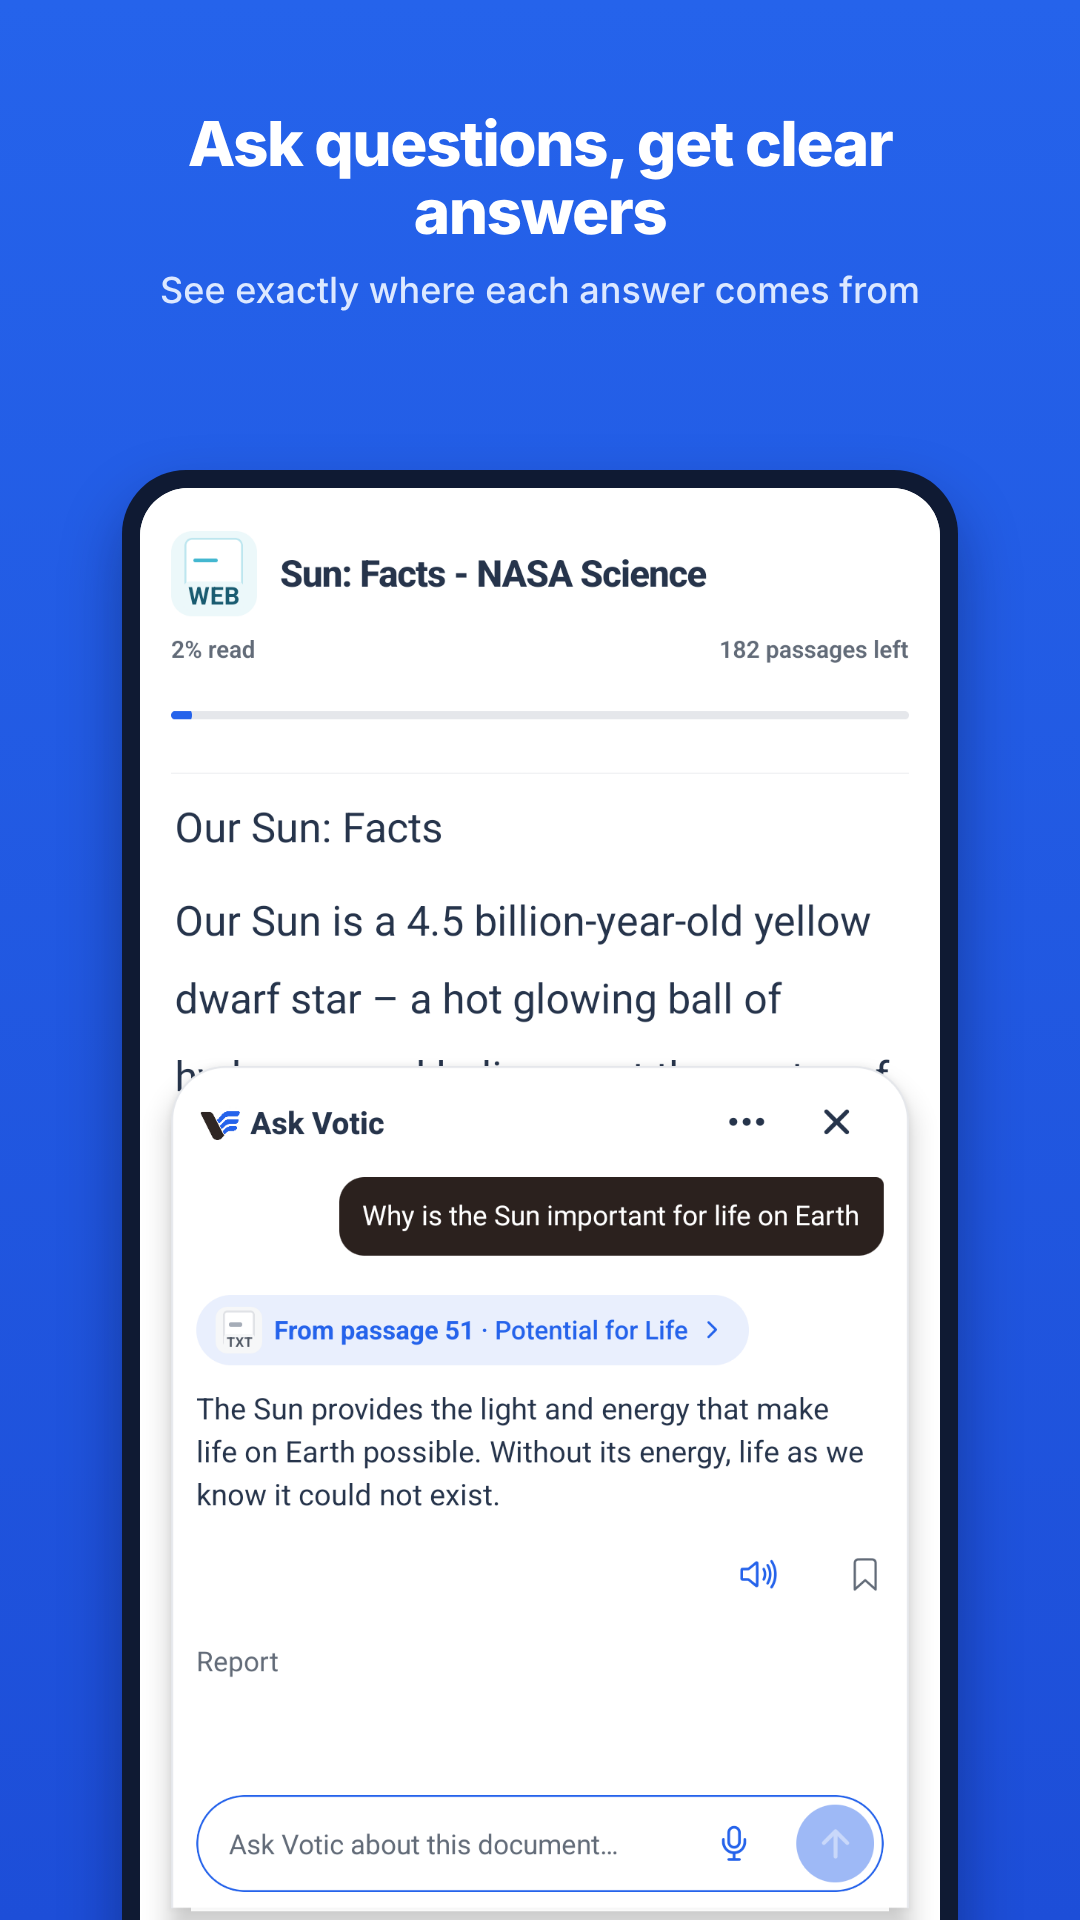
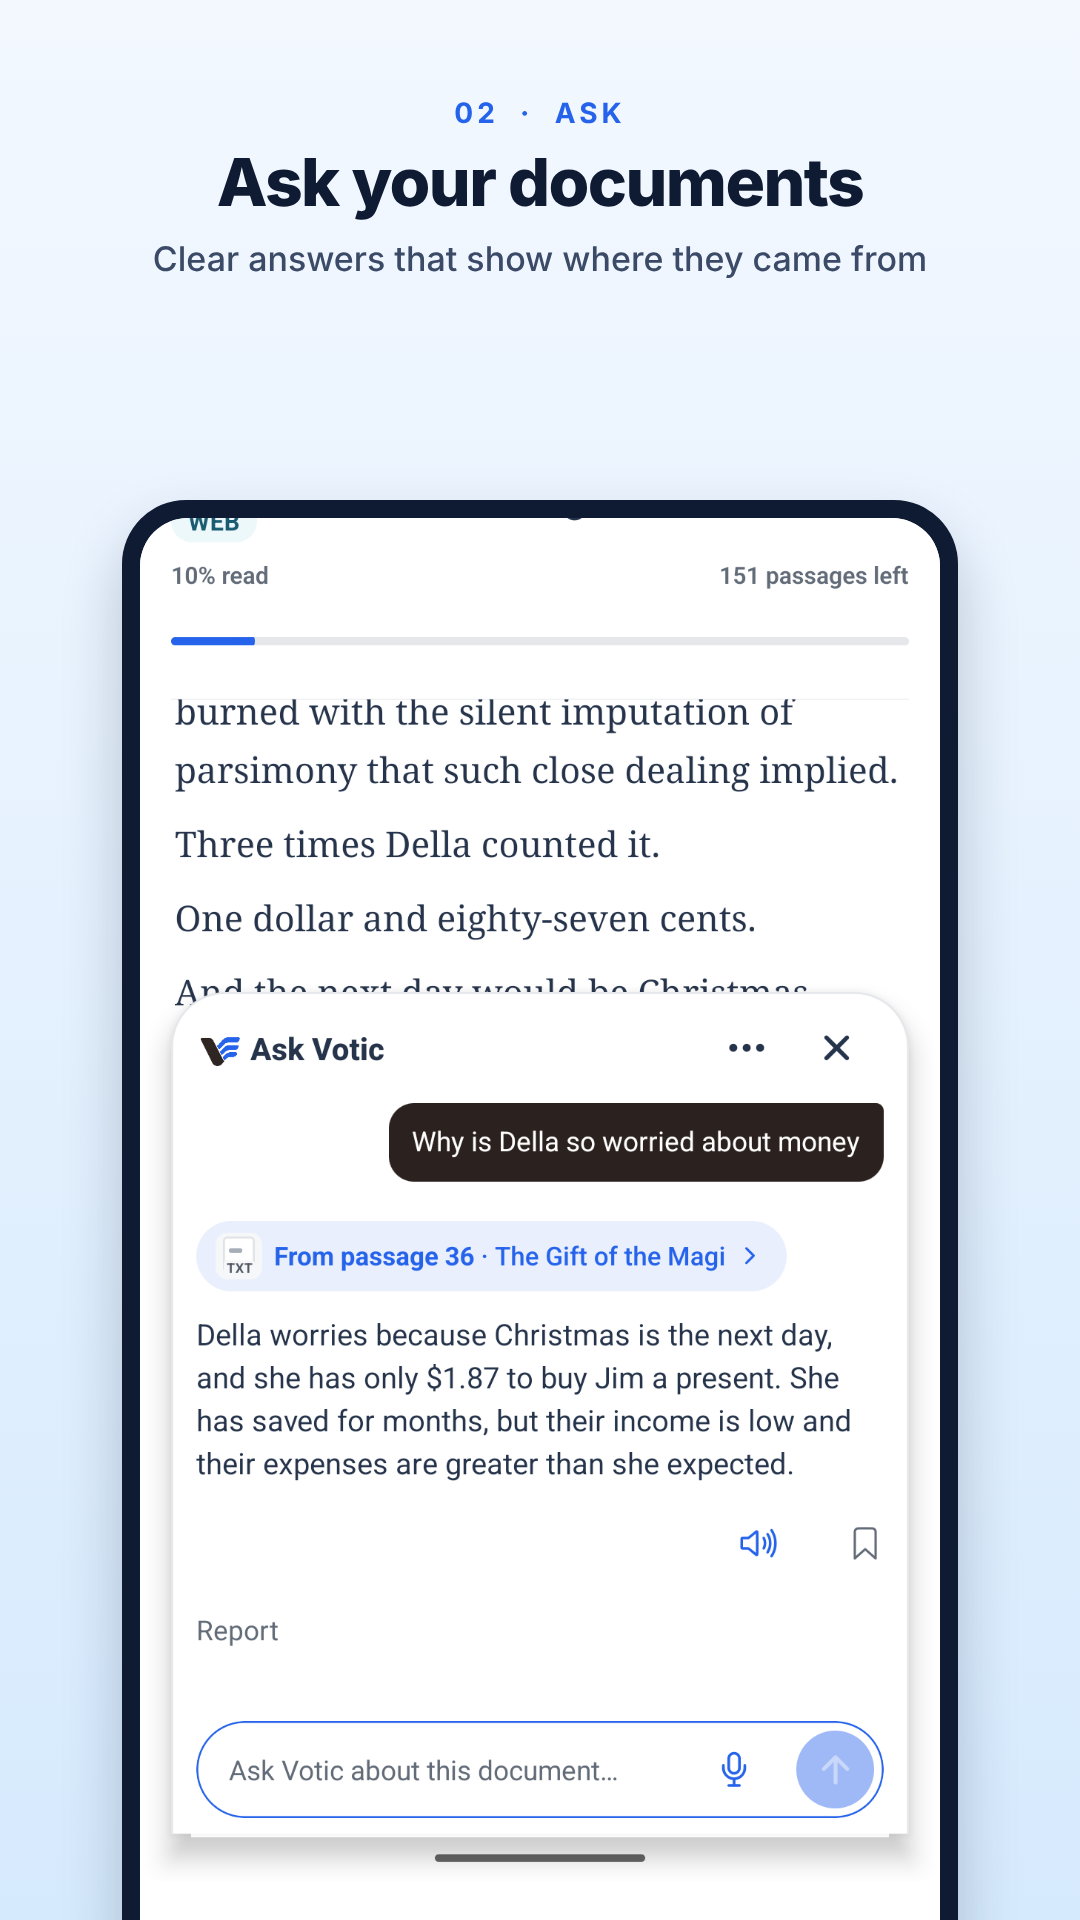
Replace Play Store screenshots with the story-ordered set (#39)
Claude-Session: https://claude.ai/code/session_0141VGUx5baBmvVKp1R8n1Tf

diff --git a/store/google-play/README.md b/store/google-play/README.md
@@ -6,6 +6,6 @@ Images for Votic's Play Store listing (Play Console → Grow users → Store pre
 |---|---|---|
 | `votic-icon-512.png` | App icon | 512 × 512 |
 | `votic-feature-graphic-1024x500.png` | Feature graphic | 1024 × 500 |
-| `votic-screenshot-1-listen.png` … `votic-screenshot-6-home.png` | Phone screenshots, in number order | 1080 × 1920 |
+| `votic-screenshot-1-read-or-listen.png` … `votic-screenshot-6-comfortable.png` | Phone screenshots, in number order | 1080 × 1920 |
 
-Screenshots were captured from the app on the Android emulator using NASA's public-domain "Sun: Facts" and "Moon Facts" pages as sample documents, then given a caption on Votic blue (#2563EB). The listing text (name, short and full description) is in the "Votic Google Play Listing" doc.
+The screenshots tell a short story, in order: read or listen your way, ask your documents, bring your documents together, save what matters, pick up where you left off, make reading comfortable. They were captured from the app on the Android emulator using public-domain sample documents (NASA's "Sun: Facts" and "Moon Facts", the U.S. Constitution and O. Henry's "The Gift of the Magi"), then framed with a caption on a light blue background. The listing text (name, short and full description) is in the "Votic Google Play Listing" doc.
